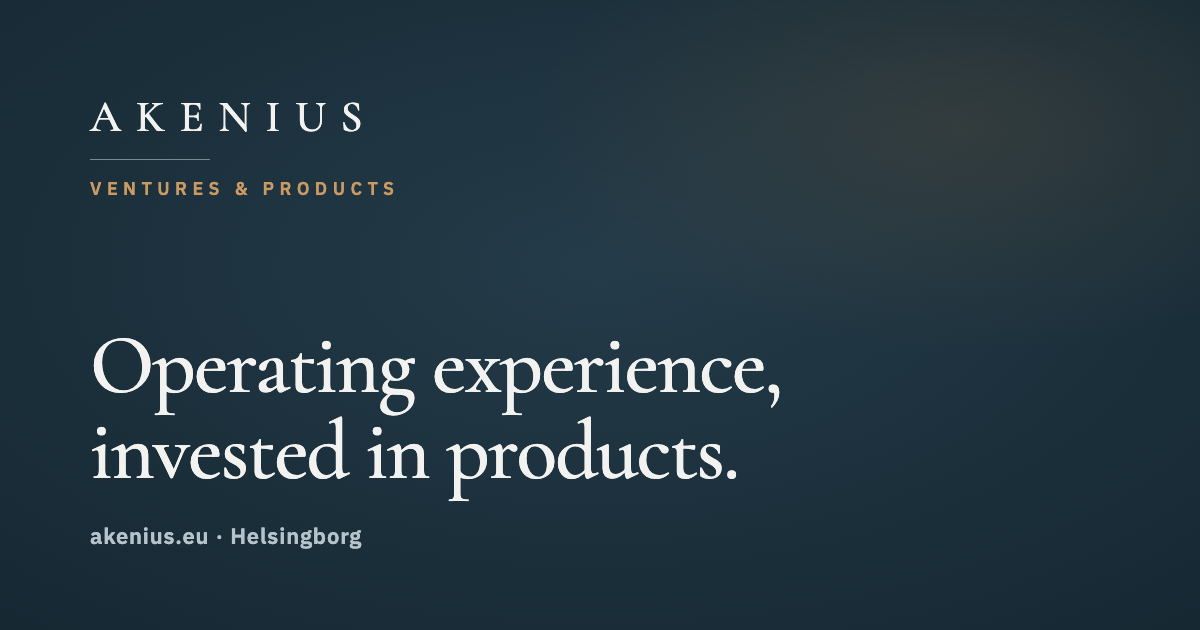
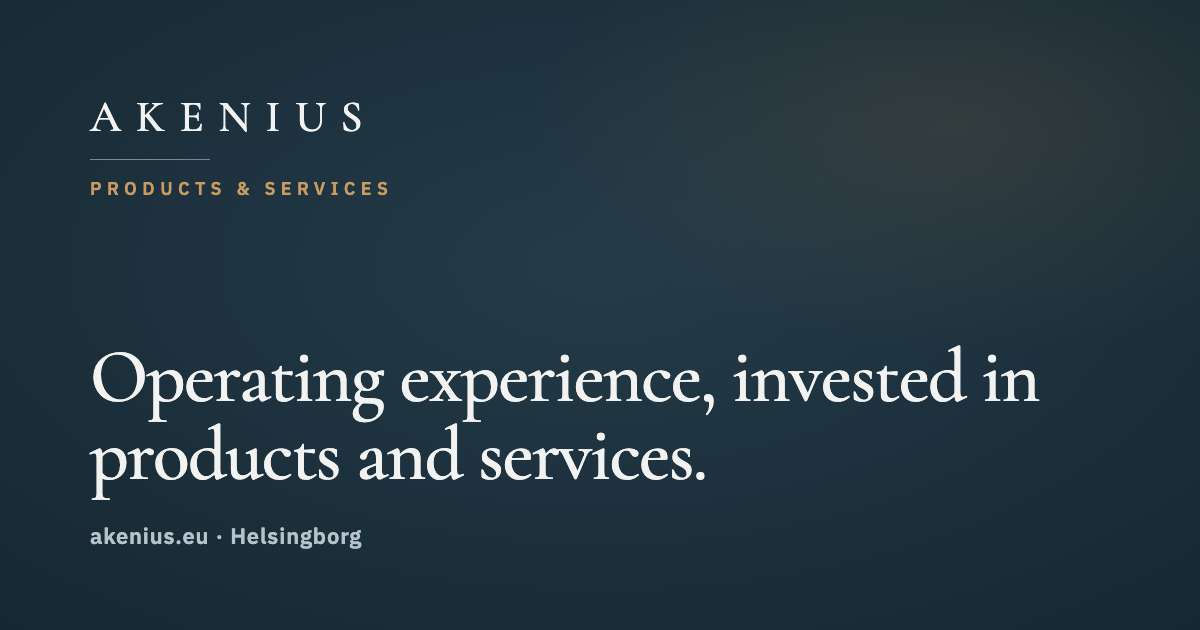
Broaden the scope from products to products and services
Hero headline, descriptor, titles, footer, metadata, intro, statement, venture card and
Ventures page copy now say product and service businesses. Hero layout tuned for the longer
headline; social preview image regenerated.

Changed region(s): [[0.0617, 0.5127, 0.8633, 0.8143], [0.2158, 0.2714, 0.3392, 0.3317], [0.0925, 0.2714, 0.185, 0.3317]]

diff --git a/ventures-products.html b/ventures-products.html
@@ -11,21 +11,21 @@ if(!/[?&]loader=0/.test(w.location.search)&&!seen)h.classList.add('loader-on')}
 setTimeout(function(){if(!w.__akReady){h.classList.remove('loader-on');h.classList.add('hero-in','reveal-all')}},4000);
 })(document,window);
 </script>
-<title>Ventures &amp; Products — Akenius AB</title>
-<meta name="description" content="How Akenius develops, launches and co-owns consumer product businesses for European markets — proof before capital, one company per venture.">
+<title>Ventures — Akenius AB</title>
+<meta name="description" content="How Akenius develops, launches and co-owns product and service businesses for European markets — proof before capital, one company per venture.">
 <meta name="robots" content="index, follow">
 <link rel="canonical" href="https://akenius.eu/ventures-products.html">
 <link rel="icon" type="image/svg+xml" href="/favicon.svg">
 <link rel="icon" type="image/png" sizes="32x32" href="/favicon.png">
 <meta property="og:type" content="website">
 <meta property="og:site_name" content="Akenius AB">
-<meta property="og:title" content="Ventures &amp; Products — Akenius AB">
-<meta property="og:description" content="How Akenius develops, launches and co-owns consumer product businesses for European markets — proof before capital, one company per venture.">
+<meta property="og:title" content="Ventures — Akenius AB">
+<meta property="og:description" content="How Akenius develops, launches and co-owns product and service businesses for European markets — proof before capital, one company per venture.">
 <meta property="og:url" content="https://akenius.eu/ventures-products.html">
 <meta property="og:image" content="https://akenius.eu/og-image.png">
 <meta name="twitter:card" content="summary_large_image">
-<meta name="twitter:title" content="Ventures &amp; Products — Akenius AB">
-<meta name="twitter:description" content="How Akenius develops, launches and co-owns consumer product businesses for European markets — proof before capital, one company per venture.">
+<meta name="twitter:title" content="Ventures — Akenius AB">
+<meta name="twitter:description" content="How Akenius develops, launches and co-owns product and service businesses for European markets — proof before capital, one company per venture.">
 <meta name="twitter:image" content="https://akenius.eu/og-image.png">
 <link rel="preconnect" href="https://fonts.googleapis.com">
 <link rel="preconnect" href="https://fonts.gstatic.com" crossorigin>
@@ -54,9 +54,9 @@ setTimeout(function(){if(!w.__akReady){h.classList.remove('loader-on');h.classLi
 <section class="hero short" aria-labelledby="h1">
   <div class="hero-bg" data-shader aria-hidden="true"></div>
   <div class="wrap hero-content"><div class="hero-scroll">
-    <p class="eyebrow">Ventures &amp; Products</p>
+    <p class="eyebrow">Ventures</p>
     <h1 class="display sub" id="h1" style="margin-top:1.5rem">Operating experience is the capital.</h1>
-    <p class="lede">Good products often never become good businesses. The gap is rarely the product — it is pricing, sourcing, channels and the discipline to scale. That gap is where Akenius works.</p>
+    <p class="lede">Good products and services often never become good businesses. The gap is rarely the offer itself — it is pricing, sourcing, channels and the discipline to scale. That gap is where Akenius works.</p>
   </div></div>
 </section>
 
@@ -65,7 +65,7 @@ setTimeout(function(){if(!w.__akReady){h.classList.remove('loader-on');h.classLi
     <div class="grid"><div class="span-8">
       <p class="eyebrow" data-reveal><span class="n">01</span><span>What we build</span></p>
       <h2 data-reveal style="margin-top:1.5rem">What we build</h2>
-      <div class="prose" data-reveal style="margin-top:1.5rem"><p>We develop our own consumer products and co-own them with partners: products for everyday wellbeing and the home, made by certified European manufacturers and sold direct to consumers across Europe — through our own online stores and the major marketplaces.</p></div>
+      <div class="prose" data-reveal style="margin-top:1.5rem"><p>We develop our own product and service businesses and co-own them with partners: products for everyday wellbeing and the home, made by certified European manufacturers, and services built around real customer needs — sold direct to customers across Europe through our own online channels and the major marketplaces.</p></div>
     </div></div>
     <div class="stats" data-stagger>
       <div class="stat" data-reveal><b data-count="4">4</b><span>stages from idea to launch</span></div>
@@ -108,7 +108,7 @@ setTimeout(function(){if(!w.__akReady){h.classList.remove('loader-on');h.classLi
     <ol class="steps" data-stagger>
       <li class="step" data-reveal><span class="num">01</span><h3>Validate</h3><p>Market and competitor mapping, customer discovery, supplier quotes at real volumes. Spend stays close to zero.</p></li>
       <li class="step gate" data-reveal><span class="num">02</span><h3>Gate</h3><p>A go/no-go decision against fixed criteria: verified unit economics, genuine audience pull, committed capital, clear IP.</p></li>
-      <li class="step" data-reveal><span class="num">03</span><h3>Make it sellable</h3><p>Company, partner agreement, IP, regulatory and product documentation, so the product can be sold legally across the EU.</p></li>
+      <li class="step" data-reveal><span class="num">03</span><h3>Make it sellable</h3><p>Company, partner agreement, IP, regulatory and product or service documentation, so the offer can be sold legally across the EU.</p></li>
       <li class="step" data-reveal><span class="num">04</span><h3>Launch and scale</h3><p>A measured launch, acquisition cost proven before spend increases, then new markets and channels.</p></li>
     </ol>
   </div>
@@ -156,12 +156,12 @@ setTimeout(function(){if(!w.__akReady){h.classList.remove('loader-on');h.classLi
   <div class="wrap"><div class="grid"><div class="span-8">
     <p class="eyebrow" data-reveal><span class="n">04</span><span>Where we partner</span></p>
     <h2 id="partner-h" data-reveal style="margin-top:1.5rem">Where we partner</h2>
-    <div class="prose" data-reveal style="margin-top:1.5rem"><p>We work with manufacturers who can document quality and stand behind their product, and with co-founders who bring a market, a skill or a product with proof. We take on few partnerships, and choose them carefully.</p></div>
+    <div class="prose" data-reveal style="margin-top:1.5rem"><p>We work with manufacturers and service providers who can document quality and stand behind what they deliver, and with co-founders who bring a market, a skill, or a product or service with proof. We take on few partnerships, and choose them carefully.</p></div>
   </div></div></div>
 </section>
 
 <section class="section cta-sec"><div class="wrap">
-  <h2 data-reveal>Have a product, a market or a factory in mind?</h2>
+  <h2 data-reveal>Have a product, a service, a market or a factory in mind?</h2>
   <div class="cta-row" data-reveal><a class="btn" href="./#contact">Discuss a partnership</a><a class="tlink" href="./"><span aria-hidden="true">←</span> Back to Akenius</a></div>
 </div></section>
 </main>
@@ -170,7 +170,7 @@ setTimeout(function(){if(!w.__akReady){h.classList.remove('loader-on');h.classLi
   <div class="wrap">
     <div class="big" aria-hidden="true">AKENIUS</div>
     <div class="foot">
-      <p><strong>AKENIUS</strong> · Ventures &amp; Products</p>
+      <p><strong>AKENIUS</strong> · Products &amp; Services</p>
       <p>Akenius AB · Helsingborg, Sweden · Org. nr 559594&#8209;8380</p>
       <p><a href="mailto:info@akenius.eu">info@akenius.eu</a></p>
       <p>© Akenius AB 2026</p>

diff --git a/index.html b/index.html
@@ -11,21 +11,21 @@ if(!/[?&]loader=0/.test(w.location.search)&&!seen)h.classList.add('loader-on')}
 setTimeout(function(){if(!w.__akReady){h.classList.remove('loader-on');h.classList.add('hero-in','reveal-all')}},4000);
 })(document,window);
 </script>
-<title>Akenius AB — Ventures &amp; Products</title>
-<meta name="description" content="Akenius AB develops and co-owns product businesses for European markets.">
+<title>Akenius AB — Products &amp; Services</title>
+<meta name="description" content="Akenius AB develops and co-owns product and service businesses for European markets.">
 <meta name="robots" content="index, follow">
 <link rel="canonical" href="https://akenius.eu/">
 <link rel="icon" type="image/svg+xml" href="/favicon.svg">
 <link rel="icon" type="image/png" sizes="32x32" href="/favicon.png">
 <meta property="og:type" content="website">
 <meta property="og:site_name" content="Akenius AB">
-<meta property="og:title" content="Akenius AB — Ventures &amp; Products">
-<meta property="og:description" content="Akenius AB develops and co-owns product businesses for European markets.">
+<meta property="og:title" content="Akenius AB — Products &amp; Services">
+<meta property="og:description" content="Akenius AB develops and co-owns product and service businesses for European markets.">
 <meta property="og:url" content="https://akenius.eu/">
 <meta property="og:image" content="https://akenius.eu/og-image.png">
 <meta name="twitter:card" content="summary_large_image">
-<meta name="twitter:title" content="Akenius AB — Ventures &amp; Products">
-<meta name="twitter:description" content="Akenius AB develops and co-owns product businesses for European markets.">
+<meta name="twitter:title" content="Akenius AB — Products &amp; Services">
+<meta name="twitter:description" content="Akenius AB develops and co-owns product and service businesses for European markets.">
 <meta name="twitter:image" content="https://akenius.eu/og-image.png">
 <link rel="preconnect" href="https://fonts.googleapis.com">
 <link rel="preconnect" href="https://fonts.gstatic.com" crossorigin>
@@ -49,7 +49,7 @@ setTimeout(function(){if(!w.__akReady){h.classList.remove('loader-on');h.classLi
   </div>
   <div class="loader-count">0%</div>
   <div class="wm">AKENIUS</div>
-  <div class="ld">Ventures &amp; Products</div>
+  <div class="ld">Products &amp; Services</div>
 </div>
 <span class="sr-only" id="loader-status" role="status"></span>
 <a class="skip" href="#main">Skip to content</a>
@@ -68,18 +68,18 @@ setTimeout(function(){if(!w.__akReady){h.classList.remove('loader-on');h.classLi
 <section class="hero full" aria-labelledby="h1">
   <div class="hero-bg" data-shader aria-hidden="true"></div>
   <div class="wrap hero-content"><div class="hero-scroll">
-    <div class="lockup"><span class="wm">AKENIUS</span><span class="rule"></span><span class="desc" data-descriptor><span class="d">Ventures</span><span class="d">Products</span></span></div>
+    <div class="lockup"><span class="wm">AKENIUS</span><span class="rule"></span><span class="desc" data-descriptor><span class="d">Ventures</span><span class="d">Products &amp; Services</span></span></div>
     <p class="eyebrow">Akenius AB · Helsingborg</p>
-    <h1 class="display" id="h1" style="margin-top:1.5rem">Operating experience, invested in products.</h1>
-    <p class="lede">Akenius is a privately held company that develops and co-owns product businesses for European markets — patiently, and with long operating experience behind every decision.</p>
+    <h1 class="display" id="h1" style="margin-top:1.5rem">Operating experience, invested in products and services.</h1>
+    <p class="lede">Akenius is a privately held company that develops and co-owns product and service businesses for European markets — patiently, and with long operating experience behind every decision.</p>
     <div class="cta-row"><a class="btn" href="ventures-products.html">Our ventures</a><a class="btn ghost" href="#contact">Get in touch</a></div>
   </div></div>
   <p class="scroll-hint" aria-hidden="true">Scroll ↓</p>
 </section>
 
-<section class="intro"><div class="wrap"><p data-reveal>A Swedish holding company building product businesses for Europe — patiently, and with our own capital at stake.</p></div></section>
+<section class="intro"><div class="wrap"><p data-reveal>A Swedish holding company building product and service businesses for Europe — patiently, and with our own capital at stake.</p></div></section>
 
-<section class="statement"><div class="wrap"><p data-reveal>Most good products don’t fail on the shelf. They fail on <em class="b">pricing</em>, on <em class="b">sourcing</em>, on <em class="b">channels</em> — and on the patience to get them right. Akenius brings <em class="b">operating experience</em> to that gap, and stays long enough for it to matter.</p></div></section>
+<section class="statement"><div class="wrap"><p data-reveal>Most good products and services don’t fail in the market. They fail on <em class="b">pricing</em>, on <em class="b">sourcing</em>, on <em class="b">channels</em> — and on the patience to get them right. Akenius brings <em class="b">operating experience</em> to that gap, and stays long enough for it to matter.</p></div></section>
 
 <section class="section" id="principles" style="padding-top:0">
   <div class="wrap">
@@ -98,8 +98,8 @@ setTimeout(function(){if(!w.__akReady){h.classList.remove('loader-on');h.classLi
     <div class="bento single" data-stagger>
       <article class="card lg" data-reveal>
         <span class="num">i</span>
-        <h3>Ventures &amp; Products</h3>
-        <p>We develop, launch and co-own consumer products — made by vetted European manufacturers and sold direct online and through marketplaces. Akenius holds the brands and IP; each venture runs in its own company, owned together with a partner.</p>
+        <h3>Ventures</h3>
+        <p>We develop, launch and co-own product and service businesses for European markets — sold direct online and through marketplaces and partners. Akenius holds the brands and IP; each venture runs in its own company, owned together with a partner.</p>
         <a class="tlink" href="ventures-products.html">How we build ventures <span class="arr" aria-hidden="true">→</span></a>
       </article>
     </div>
@@ -112,7 +112,7 @@ setTimeout(function(){if(!w.__akReady){h.classList.remove('loader-on');h.classLi
       <div class="span-7">
         <p class="eyebrow" data-reveal><span class="n">03</span><span>What we look for</span></p>
         <div class="rows" data-stagger>
-          <div class="row" data-reveal><h3>A product with proof</h3><p>Built, tested and wanted by real customers, not a slide.</p></div>
+          <div class="row" data-reveal><h3>A product or service with proof</h3><p>Built, tested and wanted by real customers, not a slide.</p></div>
           <div class="row" data-reveal><h3>Margin that survives scale</h3><p>Landed cost, price and acquisition cost that still work at volume.</p></div>
           <div class="row" data-reveal><h3>Reach across borders</h3><p>Something that travels across European markets without being rebuilt for each one.</p></div>
         </div>
@@ -176,7 +176,7 @@ setTimeout(function(){if(!w.__akReady){h.classList.remove('loader-on');h.classLi
   <div class="wrap">
     <div class="big" aria-hidden="true">AKENIUS</div>
     <div class="foot">
-      <p><strong>AKENIUS</strong> · Ventures &amp; Products</p>
+      <p><strong>AKENIUS</strong> · Products &amp; Services</p>
       <p>Akenius AB · Helsingborg, Sweden · Org. nr 559594&#8209;8380</p>
       <p><a href="mailto:info@akenius.eu">info@akenius.eu</a></p>
       <p>© Akenius AB 2026</p>

diff --git a/site.css b/site.css
@@ -123,13 +123,13 @@ html:not(.js) .nav-links { gap: 1rem; flex-wrap: wrap; justify-content: flex-end
 .lockup .wm { font-family: var(--font-serif); font-weight: 500; font-size: 1.75rem; letter-spacing: var(--track-wordmark); }
 .lockup .rule { width: 6rem; height: 1px; background: var(--ink-muted); margin: 0.75rem 0; opacity: 0.6; }
 .desc { position: relative; display: inline-block; font-weight: 600; font-size: 0.8125rem; letter-spacing: 0.3em; text-transform: uppercase; color: var(--brass-light); min-width: 9em; height: 1.4em; }
-.desc .d { position: absolute; left: 0; top: 0; opacity: 0; transition: opacity 700ms var(--ease); }
+.desc .d { position: absolute; left: 0; top: 0; opacity: 0; white-space: nowrap; transition: opacity 700ms var(--ease); }
 .desc .d.is-on { opacity: 1; }
 html:not(.js) .desc .d { position: static; opacity: 1; display: inline; }
 html:not(.js) .desc .d:first-child::after { content: " & "; }
 .hero .eyebrow { margin-bottom: var(--space-5); }
-.hero h1 { max-width: 19ch; font-size: clamp(2.75rem, 1rem + 5vw, 5.5rem); }
-.hero .lede { margin-top: clamp(1.5rem, 3vw, 2.5rem); color: var(--ink-muted); max-width: 46ch; }
+.hero h1 { max-width: 19ch; font-size: clamp(2.75rem, 1rem + 4.4vw, 4.75rem); }
+.hero .lede { margin-top: clamp(1.5rem, 3vw, 2.5rem); color: var(--ink-muted); max-width: 54ch; }
 .hero .cta-row { margin-top: clamp(2rem, 4vw, 3rem); }
 .hero.short h1 { max-width: 18ch; }
 .scroll-hint { position: absolute; left: var(--gutter); bottom: 1.5rem; font-size: 0.875rem; letter-spacing: 0.14em; text-transform: uppercase; color: var(--ink-muted); }

diff --git a/404.html b/404.html
@@ -65,7 +65,7 @@ setTimeout(function(){if(!w.__akReady){h.classList.remove('loader-on');h.classLi
   <div class="wrap">
     <div class="big" aria-hidden="true">AKENIUS</div>
     <div class="foot">
-      <p><strong>AKENIUS</strong> · Ventures &amp; Products</p>
+      <p><strong>AKENIUS</strong> · Products &amp; Services</p>
       <p>Akenius AB · Helsingborg, Sweden · Org. nr 559594&#8209;8380</p>
       <p><a href="mailto:info@akenius.eu">info@akenius.eu</a></p>
       <p>© Akenius AB 2026</p>
